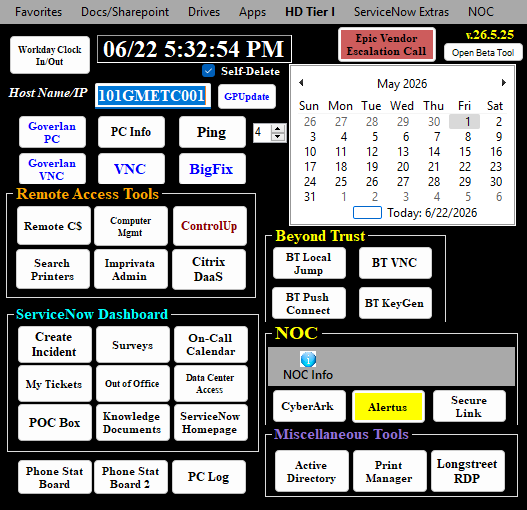
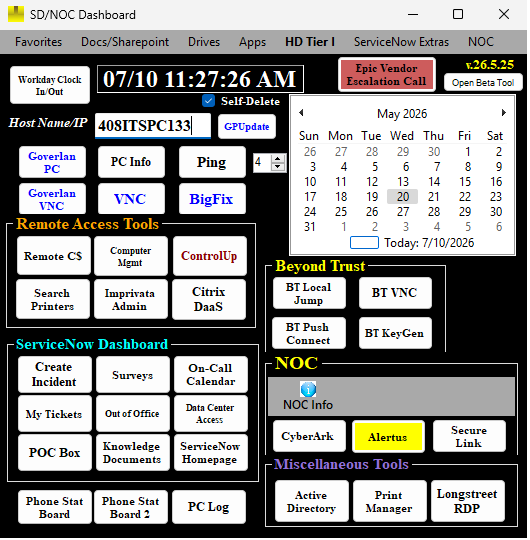
Projectpage Photo popout

diff --git a/src/Webpages/Projectspage.tsx b/src/Webpages/Projectspage.tsx
@@ -1,38 +1,82 @@
+import { useState } from "react";
 import NavBar from "../Components/HomePage/NavBar/NavBar";
 import ProjectCard from "../Components/ProjectsPage/ProjectCard/ProjectCard";
-import ViewSettings from "../Components/ProjectsPage/ViewSettings/ViewSettings";
 
 function Projectspage() {
-       //Each project gets a cardContent# const as an array. Split so the read more button works
+//Each project gets a cardContent# const as an array. Split so the read more button works
+const cardHeaderNOC = "Service Desk Remote Tool";
 const cardContentNOC1 =
-       "The main use of this software is to speed up daily tasks used at the Service Desk such as remoting and pinging computers, as well as interfacing with other software that is frequently used such as Goverlan, Ultra VNC, Bigfix, ServiceNow, BeyondTrust and others. Some other common uses are clocking in and out for the day, connecting to status boards which are used to track phone calls and providing convenient links to applications. This software was created in 2007";
+       "The main use of this software is to speed up daily tasks used at the Service Desk such as remoting and pinging computers, as well as interfacing with other software that is frequently used such as Goverlan, Ultra VNC, Bigfix, ServiceNow, BeyondTrust and others. Some other common uses are clocking in and out for the day, connecting to status boards which are used to track phone calls and providing convenient links to applications. This software was created in 2007 and has been in continuous use  since, changing over the years to add new features or remove deprecated. The tool was written in Visual Basic 6 and was used in that form until I took over development in 2025. I learned Visual Basic syntax, but there was concern that future hires who may be able to maintain the tool would not know or want to learn visual basic, so I ported it to C# which was a much more straightforward process than I ";
 const cardContentNOC2 = 
-       "and has been in continuous use  since, changing over the years to add new features or remove deprecated. The tool was written in Visual Basic 6 and was used in that form until I took over development in 2025. I learned Visual Basic syntax, but there was concern that future hires who may be able to maintain the tool would not know or want to learn visual basic, so I ported it to C# which was a much more straightforward process than I initially expected.\n\nSome new employees found the tool overwhelming when starting out, so I actually attempted to redesign the tool to clear up the visual clutter. Many people that had been at the Service Desk for years did not want the original tool changed, so I developed both concurrently. The new tool was split into four pages, with the goal of only having to change pages once or twice per day and included custom buttons on the home page that could be mapped to features found on other pages. In the end, having two versions of the same tool was increasing complexity with minimal payoff and split the user base into two groups. Since the new version was less popular I scrapped its development and had the users of the redesign mo,ve to the original tool. LESSON LEARNED: Don't fix what ain't broke. Here's a few of the features I've added: \n\n1. Sped up communication with Goverlan, reducing delay between button press and Goverlan connection attempts from ~2 seconds to near instant. \n2. Implemented a log file that tracks button presses, which user pressed it, when it was pressed and the current software version. \n3. Automatically checks for updates on launch and prompts user to . Previously new versions had to be manually pulled from a remote drive. \n4. Administrators set the default browser to Edge in windows, implemented a system to change the default browser for any links opened from the tool. \n5. Plenty more small changes, bug fixes and optimizations.";
+       "initially expected.\n\nSome new employees found the tool overwhelming when starting out, so I actually attempted to redesign the tool to clear up the visual clutter. Many people that had been at the Service Desk for years did not want the original tool changed, so I developed both concurrently. The new tool was split into four pages, with the goal of only having to change pages once or twice per day and included custom buttons on the home page that could be mapped to features found on other pages. In the end, having two versions of the same tool was increasing complexity with minimal payoff and split the user base into two groups. Since the new version was less popular I scrapped its development and had the users of the redesign mo,ve to the original tool. LESSON LEARNED: Don't fix what ain't broke. Here's a few of the features I've added: \n\n1. Sped up communication with Goverlan, reducing delay between button press and Goverlan connection attempts from ~2 seconds to near instant. \n2. Implemented a log file that tracks button presses, which user pressed it, when it was pressed and the current software version. \n3. Automatically checks for updates on launch and prompts user to . Previously new versions had to be manually pulled from a remote drive. \n4. Administrators set the default browser to Edge in windows, implemented a system to change the default browser for any links opened from the tool. \n5. Plenty more small changes, bug fixes and optimizations.";
+const mainPhotoNOC = "src/Assets/ProjectPhotos/NocTool.png";
+
+//GPERRY.LIVE
+const cardHeaderSite = "gperry.live";
+const cardContentSite1 = "The site you are currently on";
+const cardContentSite2 = "\ntest2";
+const mainPhotoSite = "src/Assets/ProjectPhotos/SitePhoto.png";
+
+//MISC IMAGES FOR TESTING
+const mainPhotoMisc1 = "src/Assets/AssetPhotos/Gandalf.png";
+const mainPhotoMisc2 = "src/Assets/PhotoOfTheDay/tobe1.jpg";
+const mainPhotoMisc3 = "src/Assets/PhotoOfTheDay/tree.jpg";
 
        
-
+//Set up zoomed image functionality
+const [zoomedImage, setZoomedImage] = useState("/src/Assets/AssetPhotos/Gandalf.png");
+function openZoom(imagePath: string) {
+       var imageContainer = document.querySelector(".projectspage-image-container") as HTMLElement;
+       imageContainer.style.display = "block";
+       setZoomedImage(imagePath);     
+}
+function closeZoom() {
+       var imageContainer = document.querySelector(".projectspage-image-container") as HTMLElement;
+       imageContainer.style.display = "none";
+}
 
 return(
        <>
        <header> <NavBar /> </header>
        <div className="projectspage-body">
               <ProjectCard 
+                     header = {cardHeaderNOC}
                      content={cardContentNOC1} 
-                     moreContent = {cardContentNOC2} />
+                     moreContent = {cardContentNOC2} 
+                     mainPhoto={mainPhotoNOC}
+                     openZoom={openZoom}/>
               <ProjectCard 
-                     content={cardContentNOC1} 
-                     moreContent = {cardContentNOC2} />
+                     header = {cardHeaderSite}
+                     content={cardContentSite1} 
+                     moreContent = {cardContentSite2}
+                     mainPhoto={mainPhotoSite}
+                     openZoom={openZoom}/>
               <ProjectCard 
+                     header = {cardHeaderNOC}
                      content={cardContentNOC1} 
-                     moreContent = {cardContentNOC2} />
+                     moreContent = {cardContentNOC2} 
+                     mainPhoto={mainPhotoMisc1}
+                     openZoom={openZoom}/>
               <ProjectCard 
+                     header = {cardHeaderNOC}
                      content={cardContentNOC1} 
-                     moreContent = {cardContentNOC2} />
+                     moreContent = {cardContentNOC2} 
+                     mainPhoto={mainPhotoMisc2}
+                     openZoom={openZoom}/>
               <ProjectCard 
+                     header = {cardHeaderNOC}
                      content={cardContentNOC1} 
-                     moreContent = {cardContentNOC2} />
+                     moreContent = {cardContentNOC2} 
+                     mainPhoto={mainPhotoMisc3}
+                     openZoom={openZoom}/>
+              
        </div>
-       <footer> <ViewSettings /> </footer>
+       <div className="projectspage-image-container" onClick={closeZoom} style={{display: "none"}}>
+              <div className="projectspage-image-foreground">
+                     <button onClick={closeZoom}> X </button>
+                     <img src={zoomedImage} alt="Zoomed Image" className="zoomed-image"/>
+              </div>
+       </div>
 
        </>
 );

diff --git a/src/Components/ProjectsPage/ProjectCard/ProjectCardStyle.css b/src/Components/ProjectsPage/ProjectCard/ProjectCardStyle.css
@@ -14,66 +14,84 @@
 }
 
 .project-image {
+  position: relative;
   height: 100%;
   width: 100%;
   object-fit: contain;
 
   display: flex;
   flex-direction: column;
-  align-items: center;
   justify-content: center;
+  overflow: hidden;
 
 }
   .project-image img {
     width: 90%;
     aspect-ratio: 1;
+    display: block;    
+    border: 10px solid #F4E4D1;
+    cursor: zoom-in;
   }
- .project-card--expanded .project-image {
-  align-items: center;
-  justify-self: center;
-  }
-  
+
+
 .project-image-nav {
-  background-color: #ad8671;
-  transform: translateY(-150%);
-  box-shadow: 0 4px 10px rgba(0,0,0,0.8);
+  position: absolute;
   z-index: 2;
+  bottom: 10px;
+
+  width: 90%;
+  min-height: 40%;
+
+  background-color: #a1a1a1;
+  opacity: 50%;
+  border-left: 10px solid #F4E4D1;
+  border-right: 10px solid #F4E4D1;
+
+  display: flex;
+  gap: 5%;
 }
+  .project-image-nav:hover {
+    opacity: 100%;
+  }
+
+  .project-image-nav img {
+    width: 30%;
+    aspect-ratio: 1;
+    display: block;   
+    border: 0px; 
+  }
 
 
 .project-body {
   line-height: 1.55;
   overflow-y: auto;
   white-space: pre-wrap;
-    margin-top: 0px;
+    margin-top: 10px;
 
 }
+  .project-title {
+    margin: 0;
+    font-size: 20px;
+    font-weight: 900;
+  }
+  .project-desc-box p{
+    margin-top: 10px;
+    margin-bottom: 0px;
+  }
+    .project-desc-box button{
+      color:#963500;
+      background-color: transparent;
+      border: 0px;
+      text-decoration: underline;
+    }
+  .project-date {
+    margin-top: auto;
+    align-self: flex-end;
 
-.project-title {
-  margin: 0;
-  font-size: 20px;
-  font-weight: 900;
-}
-
-.project-desc-box p{
-  margin-top: 0;
-  margin-bottom: 0px;
-}
-.project-desc-box button{
-  color:#963500;
-  background-color: transparent;
-  border: 0px;
-  text-decoration: underline;
-}
-
-.project-date {
-  margin-top: auto;
-  align-self: flex-end;
-
-  font-size: 10px;
-  font-weight: 400;
-  letter-spacing: 0.08em;
-  color: #5a3d20;
-  margin-bottom: 3px;
-}
+    font-size: 10px;
+    font-weight: 400;
+    letter-spacing: 0.08em;
+    color: #5a3d20;
+    margin-bottom: 3px;
+  }
 

diff --git a/src/Components/ProjectsPage/ProjectCard/ProjectCard.tsx b/src/Components/ProjectsPage/ProjectCard/ProjectCard.tsx
@@ -1,29 +1,35 @@
 import './ProjectCardStyle.css';
-import '../ViewSettings/ViewSettings';
 import { useState } from 'react';
 
-function ProjectsCard(props: { content: string; moreContent: string; } ) {
-
+function ProjectsCard(
+  props: {
+    header: string;
+    content: string;
+    moreContent: string;
+    mainPhoto: string;
+    openZoom: (zoomedImage: string) => void;
+  }
+) {
   const [showMore, setShowMore] = useState(false);
-  
+
   const toggleReadMore = () => {
     setShowMore(!showMore);
   };
 
-return (    
-  <div className={`project-card ${showMore ? 'project-card--expanded' : ''}`}>
-    <div className="project-image" style={{gridArea: 'project-image'}}>
-      <img src="src/Assets/ProjectPhotos/NocTool.png" alt="Project Image"  />
-      <span className="project-image-nav"> turn into photo selector </span>
-    </div>
-    
+  const handleImageClick = () => {
+    props.openZoom(props.mainPhoto);
+  };
 
-
+  return (
+    <div className={`project-card ${showMore ? 'project-card--expanded' : ''}`}>
+      <div className="project-image" style={{ gridArea: 'project-image' }}>
+        <img src={props.mainPhoto} alt="Project Image" onClick={handleImageClick} />
+      </div>
     
     <div className="project-body" style={{gridArea: 'project-body'}}>
-      <h3 className="project-title">Service Desk Remote Tool</h3>
+      <h3 className="project-title">{props.header}</h3>
       <div className="project-desc-box">
-        <p> {/* pressing the button makes the dots disappear and adds moreContent*/}
+        <p>{/* pressing the button makes the dots disappear and adds moreContent*/}
           {props.content}
           <span id="dots" style={{display: showMore ? 'none' : 'inline'}}>... 
           </span>

diff --git a/src/App.css b/src/App.css
@@ -4,6 +4,9 @@ body {
   color: #3d2a14;
   font-family: "Cormorant Garamond", serif;
 }
+  body a {
+    color: #963500;
+  }
 
 .homepage-body {
   display: grid;
@@ -36,7 +39,7 @@ body {
   }
   .panel-header {
     background: #ecd2b3;
-    border-bottom: 1px solid rgba(139, 100, 60, 0.22);
+    border-bottom: 1px solid rgba(139, 100, 60, 0.25);
     padding: 5px 10px;
     display: flex;
     align-items: center;
@@ -53,6 +56,39 @@ body {
     line-height: 1.25;
     overflow: auto;
   }
-    .panel-body a {
-      color:#963500
+
+/* Projects page zoom into image on click, zoom out on click */
+.projectspage-image-container {
+  position: fixed;
+  inset: 0;
+  width: 100vw;
+  height: 100vh;
+  background-color: #0000007d;
+  z-index: 1;
+}
+  .projectspage-image-foreground {
+    position: fixed;
+    inset: 25% 5%;
+    z-index: 2;
+
+    background-color: rgb(121, 121, 121);
+    display: flex;
+    justify-content: center;
+    align-items: center;
+
+    font-size: 32px;
+    text-align: center;
     }
+    .projectspage-image-foreground img {
+      max-width: 90%;
+      max-height: 90%;
+    }
+  .projectspage-image-container button {
+    position: absolute;
+    top: 10px;
+    right: 10px;
+    font-size: 24px;
+    color: #000000;
+    background-color: #00000000;
+    cursor:pointer;
+  }

diff --git a/src/Components/HomePage/Projects/ProjectsPanelStyle.css b/src/Components/HomePage/Projects/ProjectsPanelStyle.css
@@ -21,9 +21,11 @@
   .projectpanel-image img {
     object-fit: contain;
     width: 100%;
-    aspect-ratio: 1/1;
     height: auto;
-    max-height: 210px
+    max-height: 210px;
+    object-position: left;
+    border: 5px solid #F4E4D1;
+
   }
 
 .projectpanel-body {
